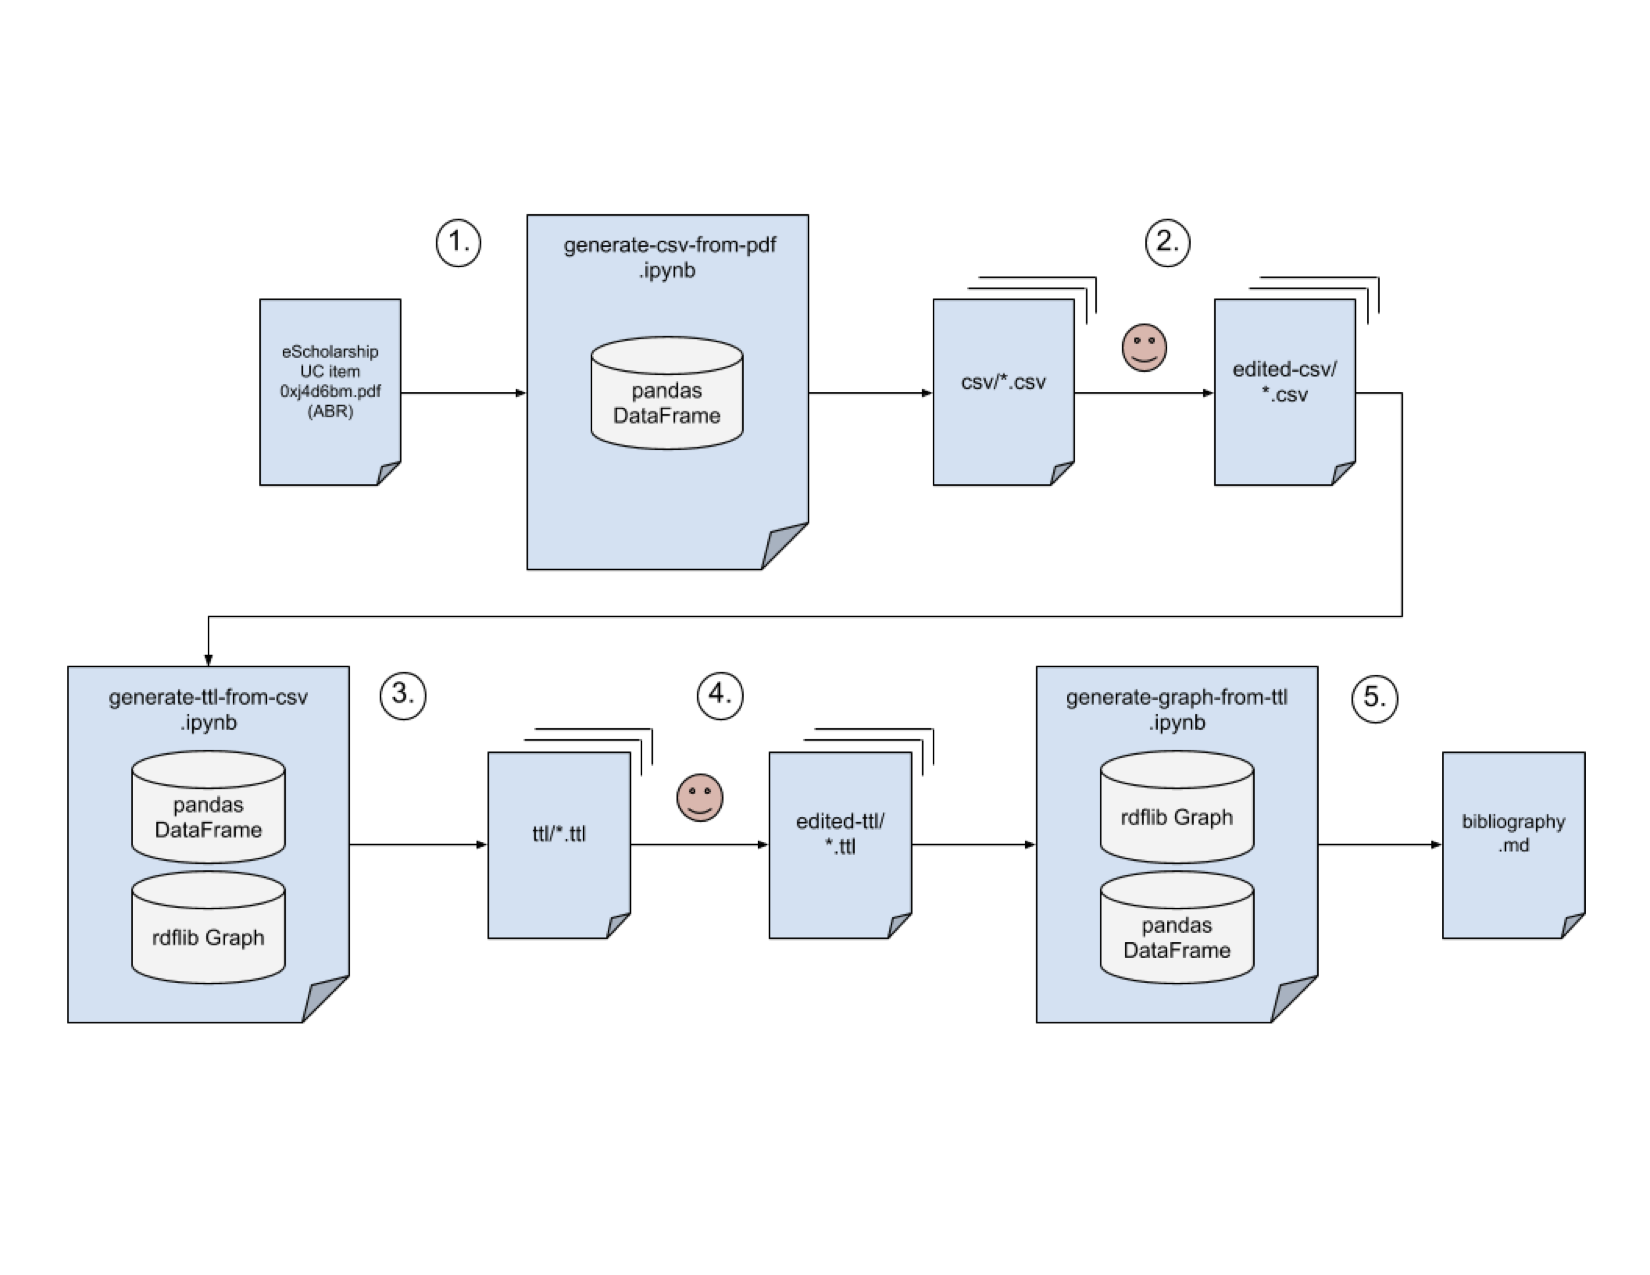
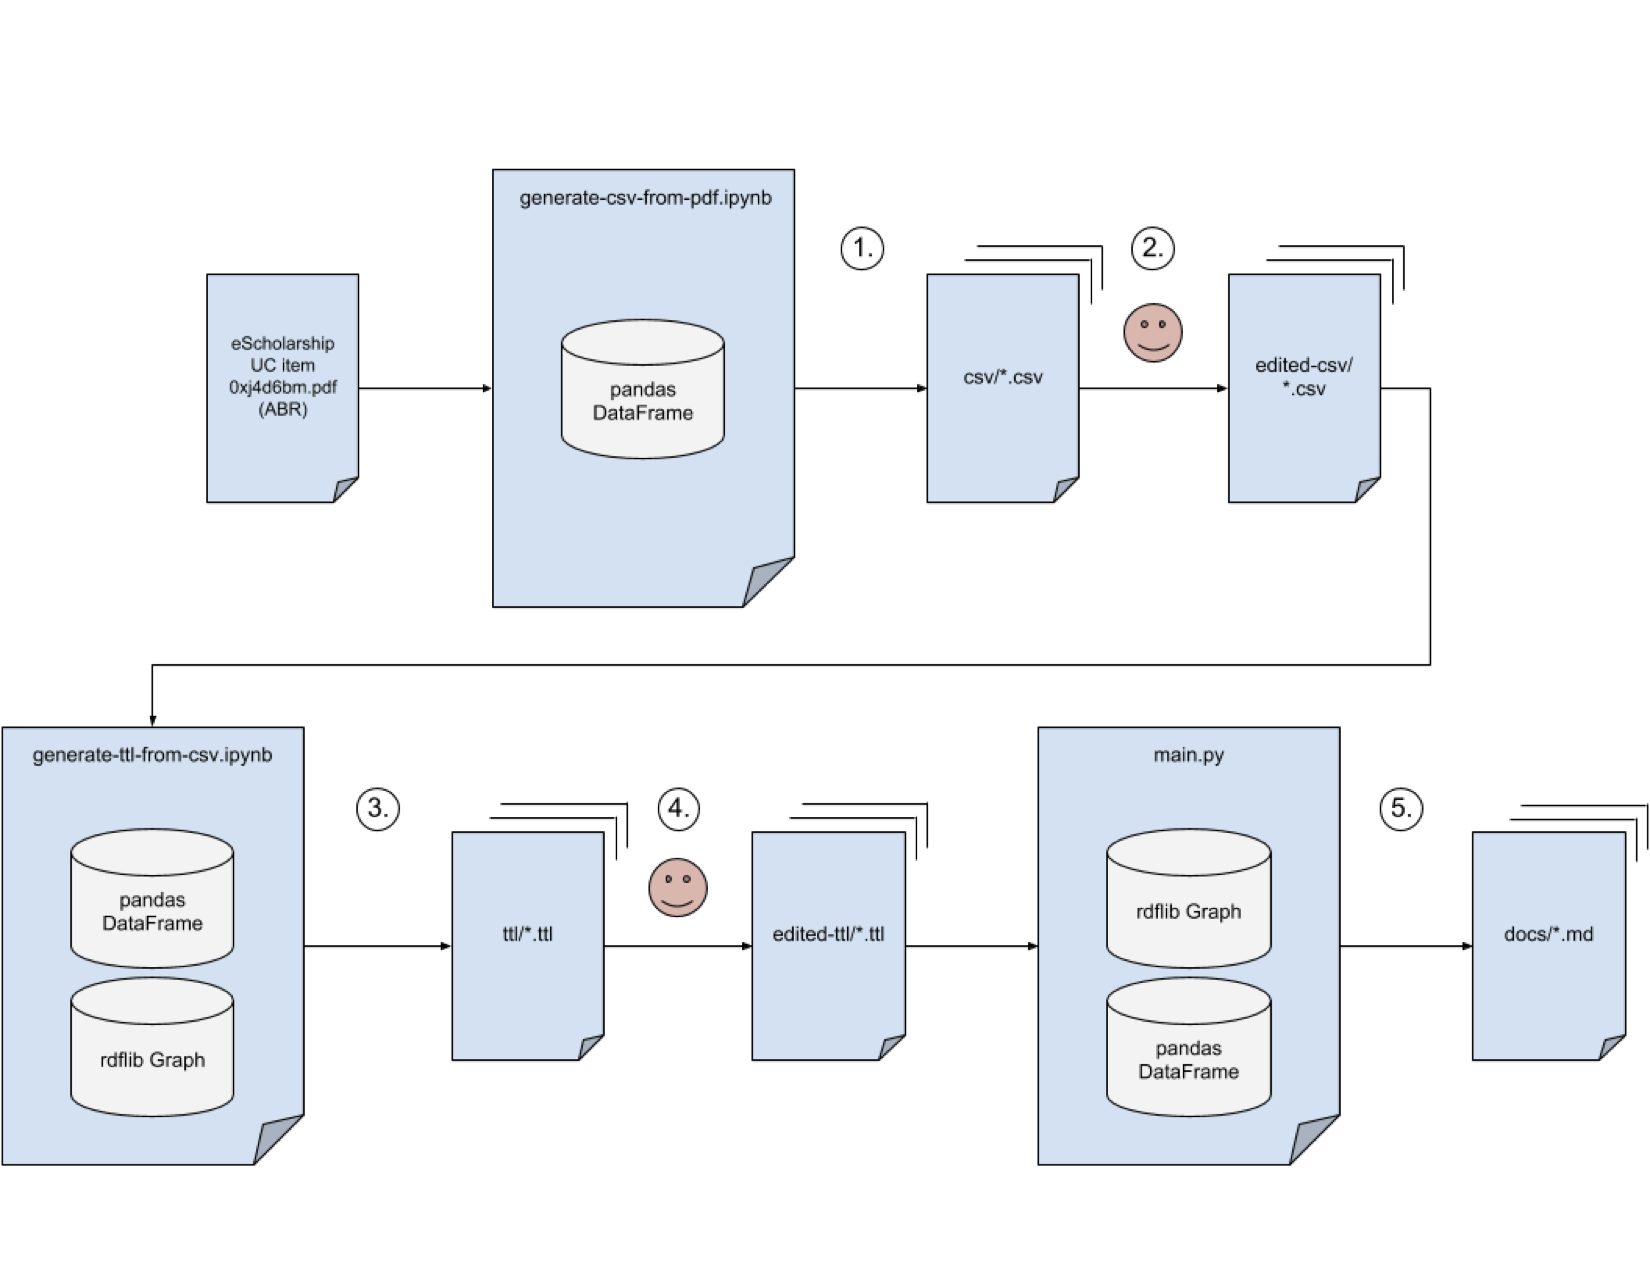
Updated README.md to reflect autobuild and deployment
Also removed Markdown generation code from generate-graph-from-ttl.pynb.

diff --git a/README.md b/README.md
@@ -83,13 +83,18 @@ _([generate-ttl-from-csv.ipynb](https://github.com/bradleypallen/anything-but-ro
 
 The out-of-the-box NLTK sentence tokenization, while useful, doesn't do a great job when confronted with abbreviations and such. In a similar vein, using NLTK's entity chunking to generate values for bf:contributor generates a certain amount of noise in addition to the convenience factor. So I examine and correct each generated .ttl file as needed, comparing it to the entry in the original document, mostly editing notes and agents.
 
-#### 5. Generating an RDF graph from the .ttl files
+#### 5. Generating an .md document from the .ttl files
 
-The data now captured in .ttl files, one per bf:work and bf:Instance, is parsed into an rdflib.Graph. From there, we can explore and visualize the data using either SPARQL queries or by directly walking the graph using rdflib's RDF graph iterators. For ease of analysis, I'm finding that first hewing out data using one or both of those approaches and then creating a pandas DataFrame is a great way to go. The (partial) bibliography at [doc/index.md](doc/index.md) is generated using that approach. Bringing the ABR data into a Python notebook environment, together with the use of collaborative Git-based maintenance of the data points towards a way in which the work of catalog refinement and maintenance can be done in the future. _([generate-graph-from-ttl.ipynb](https://github.com/bradleypallen/anything-but-routine-ld/blob/master/generate-graph-from-ttl.ipynb))_
+The data captured in .ttl files is parsed into an rdflib.Graph. From there, the instance data is loaded into a pandas.DataFrame and then iterated through to generate Markdown summaries of the bibliographical metadata per instance. These are written out to the /docs directory. Integration with [Travis-CI](https://travis-ci.org) is set up so that any updated to the Github repository (e.g. by updates to a work or instance .ttl file) triggers an automated build and push of updated bibliography .md files from /docs to a gh-pages branch of the repository, and from there served up by [Github Pages](https://pages.github.com). The end result is at [http://bradleypallen.org/anything-but-routine-ld/](http://bradleypallen.org/anything-but-routine-ld/). _([main.py](https://github.com/bradleypallen/anything-but-routine-ld/blob/master/main.py))_
+
+### Exploring the dataset
+
+When the .ttl files are loaded into an rdflib.Graph we can of course do more than just re-render a bibliography document from that data; we can explore and visualize the data using either SPARQL queries or by directly walking the graph using rdflib's RDF graph iterators. For ease of doing data science, using one or both of those approaches and then convert the data into a pandas DataFrame works well.
+([generate-graph-from-ttl.ipynb](https://github.com/bradleypallen/anything-but-routine-ld/blob/master/generate-graph-from-ttl.ipynb)) demonstrates how this approach can be used to explore the number of instances published per year plotted as a bar chart.
 
 ## Roadmap
 
-Beyond cleaning up the horribly ugly chunks of code in the notebooks and chipping away at the modeling issues mentioned above, once the representation of ABR as linked data is mature I want to address the logistics of publishing it on the open linked data Web in a way that will be both sustainable and useful. As hinted at above, I think hewing closely to a minimalist approach based on notebooks and git will be key.
+Beyond cleaning up ugly code and chipping away at the modeling issues mentioned above, once the representation of ABR as linked data is mature I want to address the logistics of publishing it on the open linked data Web in a way that will be both sustainable and useful. As hinted at above, I think hewing closely to a minimalist approach based on notebooks and git will be key. Bringing the ABR data into a Python notebook environment, together with the use of collaborative Git-based maintenance of the data points towards a way in which the work of catalog refinement and maintenance might be done in the future.
 
 ## Acknowledgements
 
